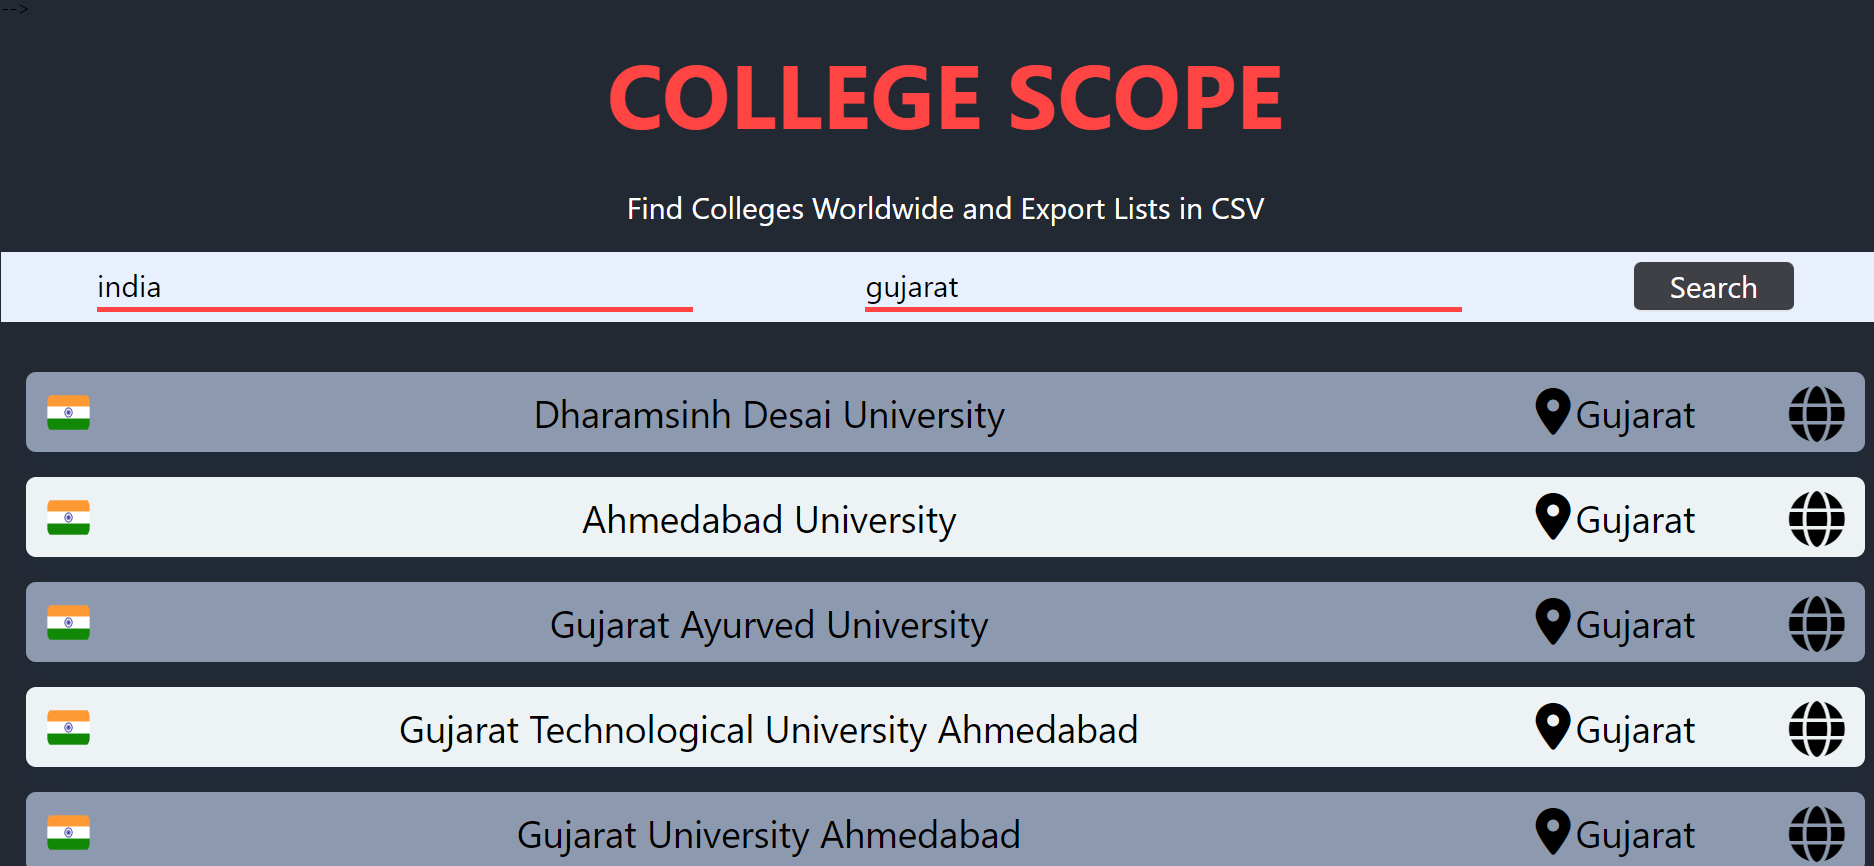
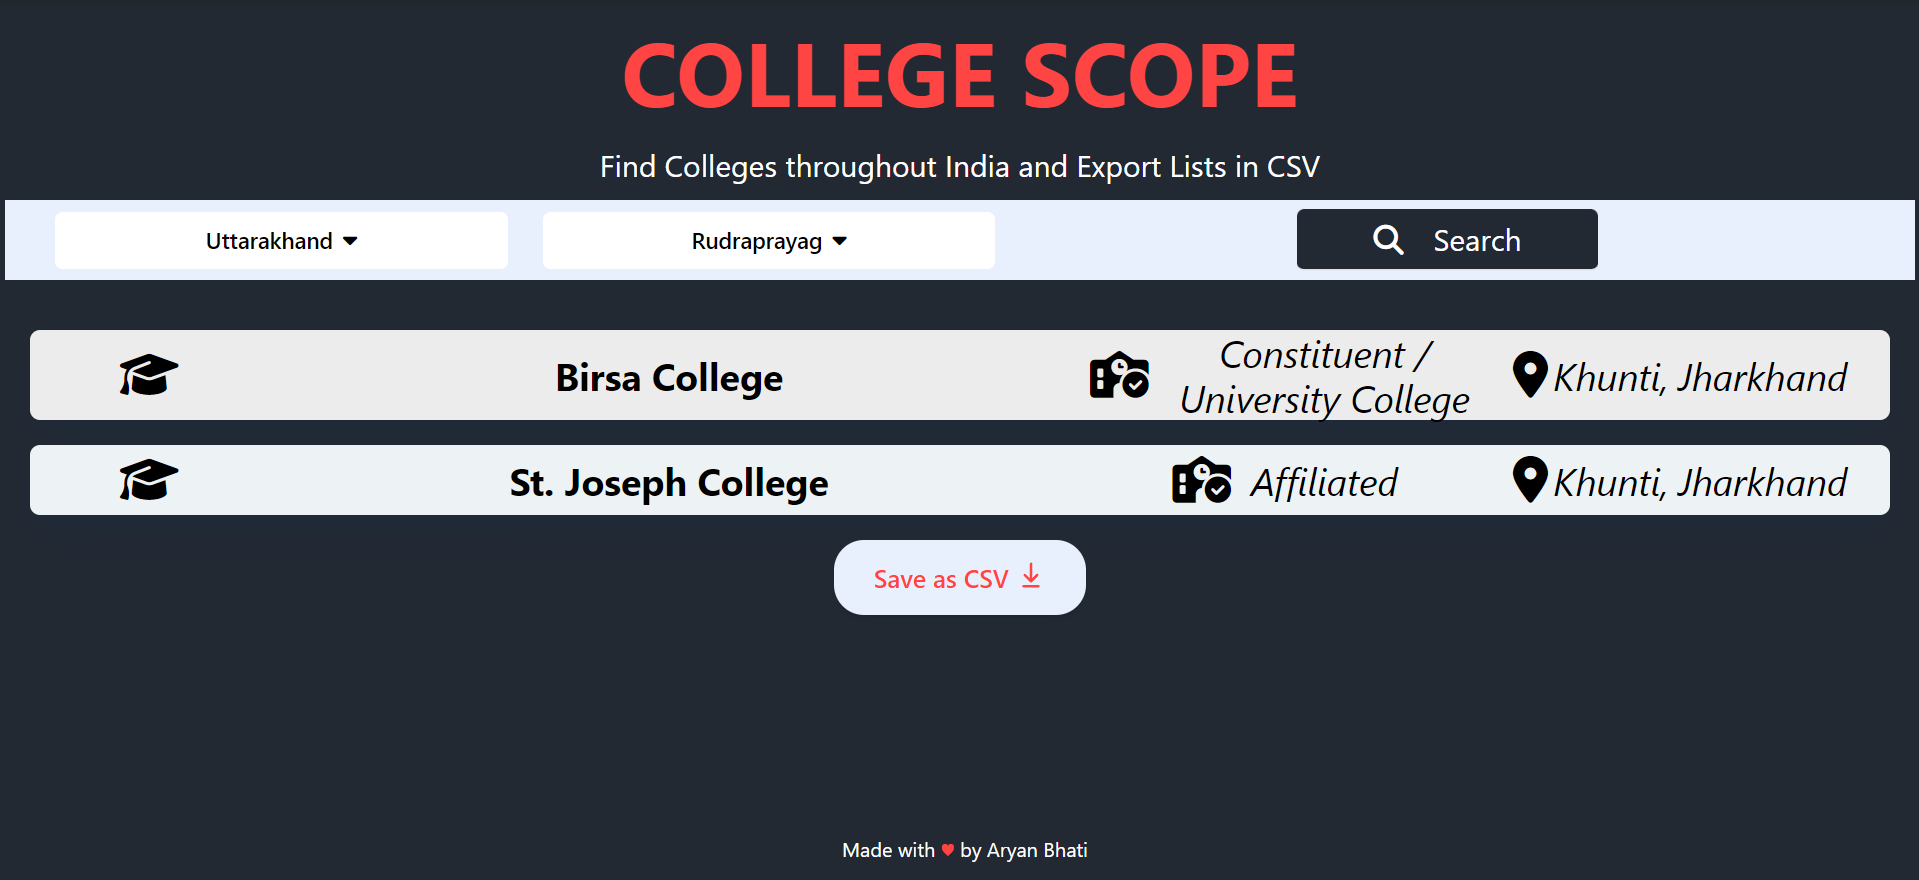
footer update

diff --git a/js/app.js b/js/app.js
@@ -3,6 +3,7 @@ document.addEventListener("DOMContentLoaded", function () {
   //importing the college list div and search button
   let collegeList = document.querySelector("#collegeList"); //Div for collgList
   let searchBtn = document.querySelector("#searchBtn");
+  let searchBar = document.querySelector("#searchBar");
 
   //declaring variables to store the state and country
   let state, district;
@@ -261,8 +262,17 @@ document.addEventListener("DOMContentLoaded", function () {
 
   //FUNCTION - to create a CSV
   function saveAsCSV() {
+    // Check if the button already exists
+    let oldSaveCsvBtn = document.querySelector("#saveCsvBtn");
+
+    // If it does, remove it
+    if (oldSaveCsvBtn) {
+      oldSaveCsvBtn.remove();
+    }
     // Create a new button element
     let saveCsvBtn = document.createElement("button");
+
+    saveCsvBtn.id = "saveCsvBtn";
 
     // Add classes to the button for styling
     saveCsvBtn.classList.add(
@@ -276,7 +286,7 @@ document.addEventListener("DOMContentLoaded", function () {
       "gap-1.5",
       "px-8",
       "py-4",
-      "bg-[#E8F0FE]",
+      "bg-[#232933]",
       "text-[#FF4444]",
       "rounded-3xl",
       "hover:bg-opacity-70",
@@ -337,6 +347,6 @@ document.addEventListener("DOMContentLoaded", function () {
       document.body.removeChild(link);
     });
     // Append the button to the collegeList element
-    collegeList.appendChild(saveCsvBtn);
+    searchBar.appendChild(saveCsvBtn);
   }
 });

diff --git a/index.html b/index.html
@@ -12,11 +12,11 @@
         crossorigin="anonymous" referrerpolicy="no-referrer" />
 </head>
 
-<body class="p-1 bg-[#232933] mx-auto overflow-x-hidden">
+<body class="flex flex-col min-h-screen p-1 bg-[#232933] mx-auto overflow-x-hidden">
     <script src="https://cdn.jsdelivr.net/npm/axios@1.6.7/dist/axios.min.js"></script>
     <script src="https://cdn.jsdelivr.net/npm/sweetalert2@11"></script>
 
-    <div id="container" class="w-full h-full pb-4 ">
+    <div id="container" class="flex-grow w-full h-full pb-4">
 
         <!-- Page - Heading -->
         <div class="w-full flex items-center justify-center  p-3">
@@ -81,7 +81,7 @@
         <script src="js/app.js"></script>
     </div>
     <!-- Footer -->
-    <footer class="absolute bottom-0 w-full text-center bg-[#232933] p-4">
+    <footer class="fixed bottom-0 w-full text-center bg-[rgba(35,41,51,0.8)]  p-4">
         <p class="text-white">Made with <span class="text-[#FF4444]">&hearts;</span> by Aryan Bhati</p>
     </footer>
 </body>

diff --git a/style.css b/style.css
@@ -883,6 +883,10 @@ video {
   max-height: 15rem;
 }
 
+.min-h-screen {
+  min-height: 100vh;
+}
+
 .w-1\/3 {
   width: 33.333333%;
 }
@@ -1949,6 +1953,10 @@ video {
 .bg-white {
   --tw-bg-opacity: 1;
   background-color: rgb(255 255 255 / var(--tw-bg-opacity));
+}
+
+.bg-\[rgba\(35\2c 41\2c 51\2c 0\.8\)\] {
+  background-color: rgba(35,41,51,0.8);
 }
 
 .decoration-slice {
